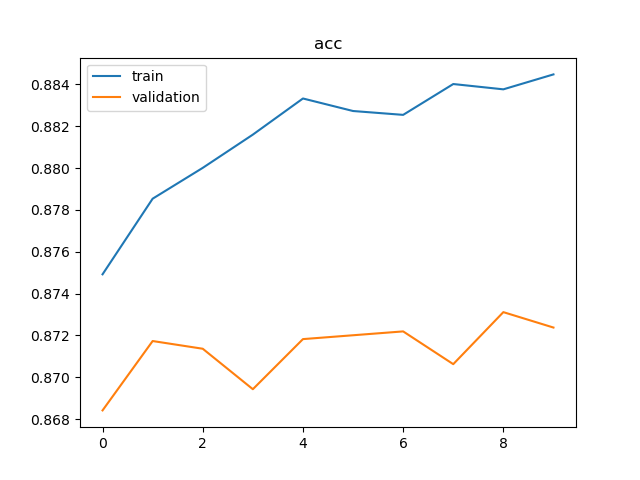
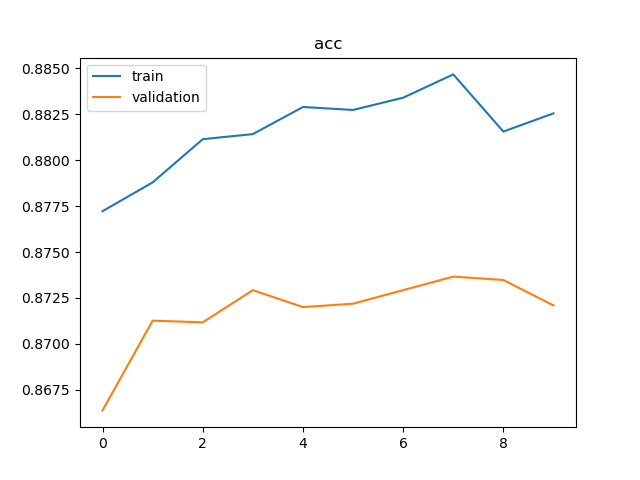
modify code in CNN-FoodClassification

diff --git a/CNN-FoodClassification/train.py b/CNN-FoodClassification/train.py
@@ -1,0 +1,71 @@
+import torch
+import numpy as np
+from tqdm import tqdm
+from utils.drawer import *
+
+
+class Train:
+    def __init__(self, model, loss, optimizer):
+        """
+            初始化训练模型、loss、优化器
+        :param model: 训练模型
+        :param loss:
+        :param optimizer: Adam、SGDM
+        """
+        self.__model = model
+        self.__loss = loss
+        self.__optimizer = optimizer
+        # 保存准确率和loss
+        self.__training_acc = []
+        self.__training_loss = []
+        self.__validation_acc = []
+        self.__validation_loss = []
+
+    def training(self, training_loader, validation_loader, max_epoch):
+        """
+            训练
+        :param training_loader: [DataLoader] 训练数据集
+        :param validation_loader:  [DataLoader] 验证数据集
+        :param max_epoch:  [int] 最大迭代次数
+        :return:
+        """
+        torch.cuda.empty_cache()
+
+        for _ in tqdm(range(max_epoch), desc='训练中'):
+            training_acc = 0.0
+            training_loss = 0.0
+            validation_acc = 0.0
+            validation_loss = 0.0
+
+            # 训练
+            self.__model.train()
+            for i, data in enumerate(training_loader):
+                self.__optimizer.zero_grad()    # 将model的gradient清零
+                training_predict = self.__model(data[0].cuda())    # 调用model的forward函数，得到预测概率分布
+                batch_loss = self.__loss(training_predict, data[1].cuda())  # 计算loss
+                batch_loss.backward()   # 利用back propagation计算每个参数的gradient
+                self.__optimizer.step()     # 用gradient更新参数
+
+                training_acc += np.sum(np.argmax(training_predict.cpu().data.numpy(), axis=1) == data[1].numpy())
+                training_loss += batch_loss.item()
+
+            # 验证
+            self.__model.eval()
+            with torch.no_grad():
+                for i, data in enumerate(validation_loader):
+                    validation_predict = self.__model(data[0].cuda())
+                    batch_loss = self.__loss(validation_predict, data[1].cuda())
+
+                    validation_acc += np.sum(np.argmax(validation_predict.cpu().data.numpy(), axis=1) == data[1].numpy())
+                    validation_loss += batch_loss.item()
+
+            self.__training_acc.append(training_acc / training_loader.dataset.__len__())
+            self.__training_loss.append(training_loss / training_loader.dataset.__len__())
+            self.__validation_acc.append(validation_acc / validation_loader.dataset.__len__())
+            self.__validation_loss.append(validation_loss / validation_loader.dataset.__len__())
+            pass
+
+    def plot(self):
+        # plot
+        plot_two_dimensions("acc", [self.__training_acc, self.__validation_acc], ["train", "validation"], True)
+        plot_two_dimensions("loss", [self.__training_loss, self.__validation_loss], ["train", "validation"], True)

diff --git a/CNN-FoodClassification/model/cnn128.py b/CNN-FoodClassification/model/cnn128.py
@@ -1,0 +1,61 @@
+import torch.nn as nn
+
+
+class CNN128(nn.Module):
+
+    def __init__(self):
+        """
+            初始化卷积层和全连接层
+        """
+        # python2.x : super(CNN128, self).__init__()
+        super().__init__()
+        # torch.nn.Conv2d(in_channels, out_channels, kernel_size, stride, padding)
+        # torch.nn.MaxPool2d(kernel_size, stride, padding)
+        # input 維度 [3, 128, 128]
+
+        # w' = (w - kernel + 2 * padding) / stride + 1
+        self.cnn = nn.Sequential(
+            nn.Conv2d(3, 64, 3, 1, 1),  # [64, 128, 128]
+            nn.BatchNorm2d(64),
+            nn.ReLU(),
+            nn.MaxPool2d(2, 2, 0),  # [64, 64, 64]
+
+            nn.Conv2d(64, 128, 3, 1, 1),    # [128, 64, 64]
+            nn.BatchNorm2d(128),
+            nn.ReLU(),
+            nn.MaxPool2d(2, 2, 0),  # [128, 32, 32]
+
+            nn.Conv2d(128, 256, 3, 1, 1),   # [256, 32, 32]
+            nn.BatchNorm2d(256),
+            nn.ReLU(),
+            nn.MaxPool2d(2, 2, 0),  # [256, 16, 16]
+
+            nn.Conv2d(256, 512, 3, 1, 1),   # [512, 16, 16]
+            nn.BatchNorm2d(512),
+            nn.ReLU(),
+            nn.MaxPool2d(2, 2, 0),  # [512, 8, 8]
+
+            nn.Conv2d(512, 512, 3, 1, 1),   # [512, 8, 8]
+            nn.BatchNorm2d(512),
+            nn.ReLU(),
+            nn.MaxPool2d(2, 2, 0)  # [512, 4, 4]
+        )
+
+        self.fc = nn.Sequential(
+            nn.Linear(512*4*4, 1024),
+            nn.ReLU(),
+            nn.Linear(1024, 512),
+            nn.ReLU(),
+            nn.Linear(512, 11)
+        )
+
+    def forward(self, x):
+        """
+            forward
+        :param x:
+        :return:
+        """
+        out = self.cnn(x)
+        # flatten
+        out = out.view(out.size()[0], -1)
+        return out

diff --git a/CNN-FoodClassification/main.py b/CNN-FoodClassification/main.py
@@ -1,0 +1,37 @@
+import configparser
+import torch.nn as nn
+import train
+from config.constant import *
+from utils import common_util
+from utils.data_loader import *
+from model.cnn128 import CNN128
+
+
+if __name__ == "__main__":
+    # 参数配置
+    config = configparser.ConfigParser()
+    config.read('config/config.ini')
+    # 读取参数
+    training_path = config['BASE']['training_path']
+    validation_path = config['BASE']['validation_path']
+    input_size = int(config['TRAINING']['input_size'])
+    batch_size = int(config['TRAINING']['batch_size'])
+    max_epoch = int(config['TRAINING']['max_epoch'])
+    learning_rate = float(config['TRAINING']['learning_rate'])
+
+    # 读取图片数据，并存放到numpy array中
+    training_x, training_y = common_util.read_data(training_path, True, input_size)
+    validation_x, validation_y = common_util.read_data(validation_path, True, input_size)
+
+    # 加载图片数据
+    training_loader = ImageDataSet(training_x, training_y, TRAINING_TRANSFORM).get_loader(batch_size)
+    validation_loader = ImageDataSet(validation_x, validation_y, TESTING_TRANSFORM).get_loader(batch_size, False)
+
+    # 训练模型
+    model = CNN128().cuda()
+    loss = nn.CrossEntropyLoss().cuda()
+    optimizer = torch.optim.Adam(model.parameters(), lr=learning_rate)
+    train = train.Train(model, loss, optimizer)
+    train.training(training_loader, validation_loader, max_epoch)
+    train.plot()
+    pass

diff --git a/CNN-FoodClassification/utils/common_util.py b/CNN-FoodClassification/utils/common_util.py
@@ -12,11 +12,12 @@ def read_data(path, label, input_size):
     :param input_size: [int] 输入图片的大小 input_size*input_size
     :return:
     """
-    print("读取数据%s..." % path)
     image_dir = sorted(os.listdir(path))
     x = np.zeros((len(image_dir), input_size, input_size, 3), dtype=np.uint8)
     y = np.zeros((len(image_dir)), dtype=np.uint8)
-    for i, file in zip(range(len(image_dir)), tqdm(image_dir)):
+
+    # 遍历文件名，并读取图片
+    for i, file in zip(range(len(image_dir)), tqdm(image_dir, desc='读取数据中')):
         img = cv.imread(os.path.join(path, file))
         x[i, :, :] = cv.resize(img, (input_size, input_size))
         if label:

diff --git a/CNN-FoodClassification/utils/drawer.py b/CNN-FoodClassification/utils/drawer.py
@@ -5,11 +5,13 @@ def plot_two_dimensions(title, data_array, legend_array, save_flag=False):
     if len(data_array) != 2 or 2 != len(legend_array):
         print("数据与标题个数不等于2")
         return
+
     # plot
     for data in data_array:
         plt.plot(data)
     plt.title(title)
     plt.legend(legend_array)
+
     # save
     if save_flag:
         plt.savefig("output\\" + title + ".png")

diff --git a/CNN-FoodClassification/readme.md b/CNN-FoodClassification/readme.md
@@ -1,0 +1,27 @@
+# CNN
+
+## Description
+Food classification using CNN.
+
+## DataSet
+- [Google Drive]( https://drive.google.com/uc?id=19CzXudqN58R3D-1G8KeFWk8UDQwlb8is)
+
+## Code
+- +config
+    - configuration file and constant.
+- +data 
+    - unzip the dataSet into data folder.
+- +model
+   - CNN model.
+- +utils
+- train.py 
+    - training program.
+
+## Development Environment
+- python 3.6.8
+
+## Resource
+- [Details](https://colab.research.google.com/drive/16a3G7Hh8Pv1X1PhZAUBEnZEkXThzDeHJ#scrollTo=zhzdomRTOKoJ)
+
+## Usage
+- python main.py
